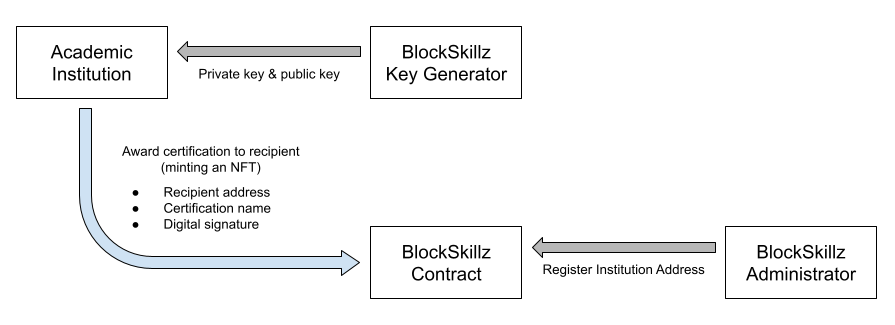
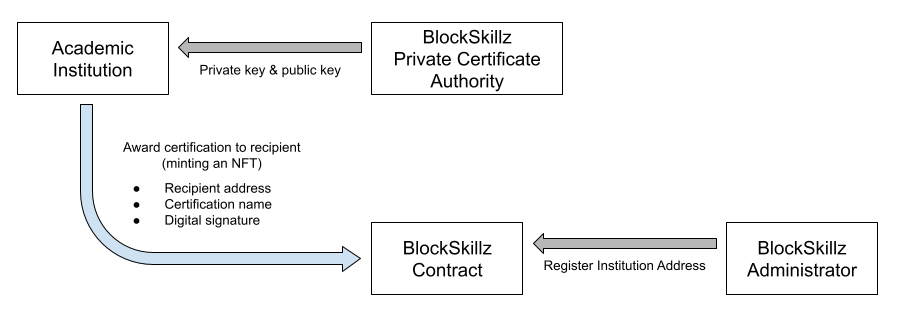
Update flow diagram

diff --git a/README.md b/README.md
@@ -18,7 +18,6 @@ This dApp lets you track your diplomas, certifications, endorsed skills and work
 
 **Nice to Have**
 1. Users can book a 1:1 time slot with other users to get help, to bounce ideas, for mentorship or just to chat.
-2. Users can search/filter for other users.
 
 ## Data Sources
 
@@ -31,12 +30,13 @@ This dApp lets you track your diplomas, certifications, endorsed skills and work
 ## Rough Breakdown of Tasks
 
 1. Figure out creating certificates for institutions (i.e. public keys). Look at letsencrypt or self-signed certs. These are the keys that users will use to verify the authenticity of the certificate/diploma.
-2. Draft an outline of features/functions to implement in the smart contract.
-3. Create the smart contract.
+2. Create a private certificate authority where institutions can generate keys.
+3. Draft an outline of features/functions to implement in the smart contract.
+4. Create the smart contract.
     a. Add institution to a list of allowable minters.
     b. Add mint NFT functionality.
     c. Additional functions TBD.
-4. Deploy the contract to the Ropsten or test network.
-5. Create the UI/dApp that will interact with the smart contract.
-6. Create a demo for the final presentation.
-7. Extra: Figure out how to get transaction history in dApp so users can view their certificates/diplomas and verify authenticity.
+5. Deploy the contract to the Ropsten or test network.
+6. Create the UI/dApp that will interact with the smart contract.
+7. Create a demo for the final presentation.
+8. Extra: Figure out how to get transaction history in dApp so users can view their certificates/diplomas and verify authenticity.
